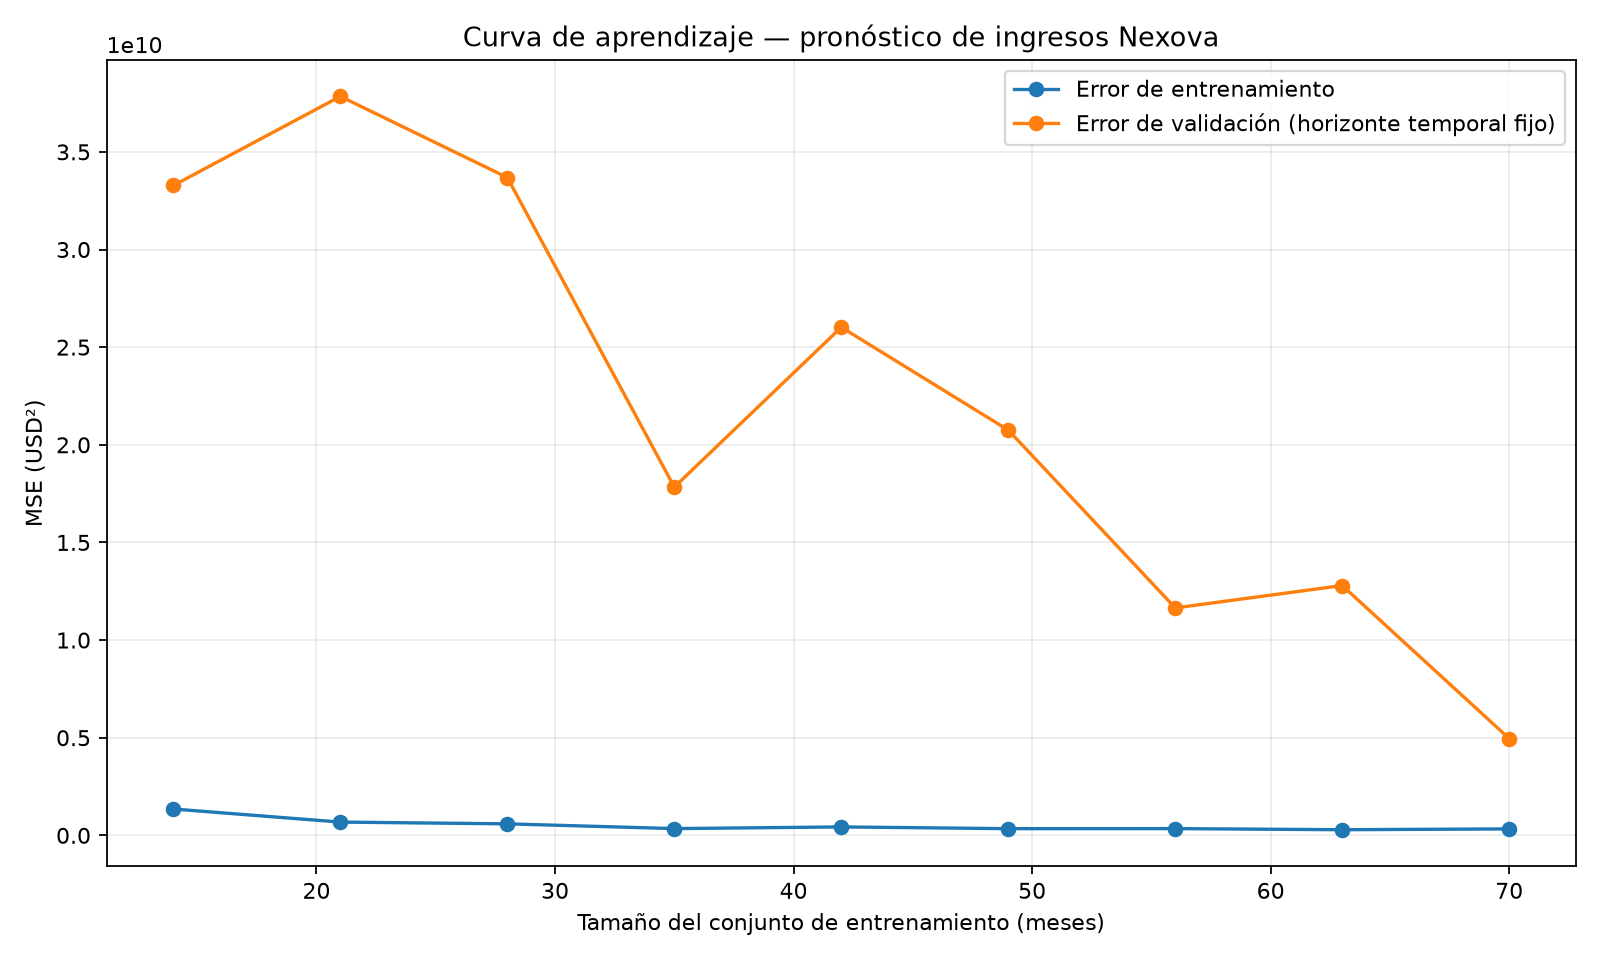
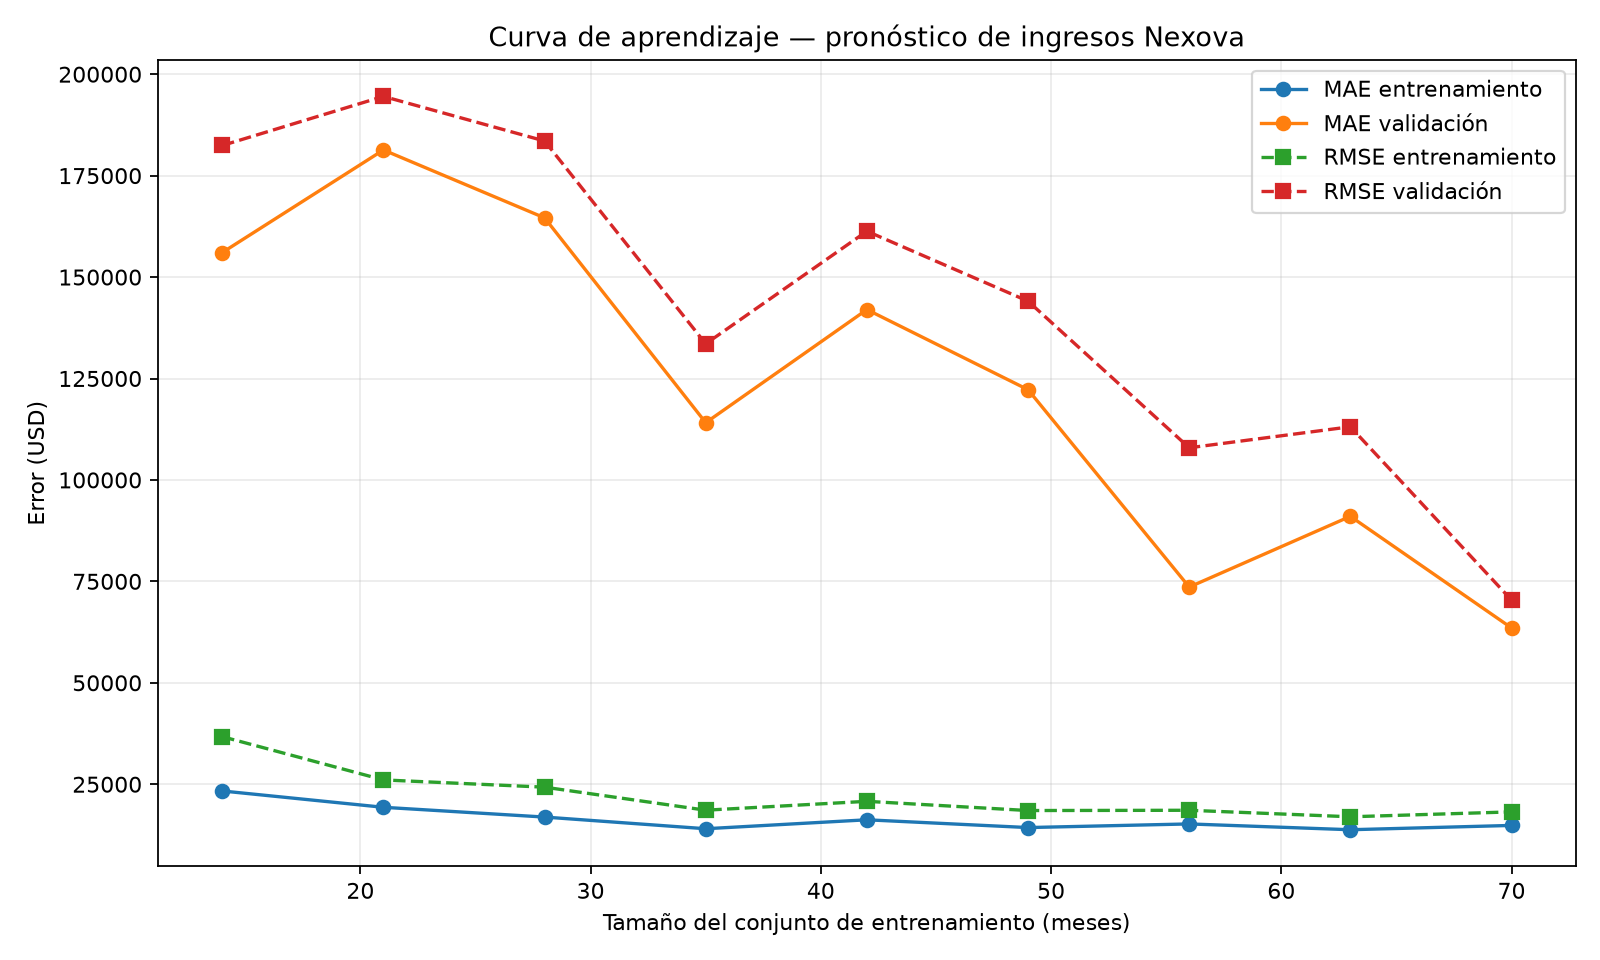
feat: completa evaluación temporal del pronóstico de ventas con métricas, curva de aprendizaje e informe

diff --git a/scripts/sales_forecast.py b/scripts/sales_forecast.py
@@ -167,6 +167,23 @@ def recursive_forest_forecast(
     return predictions_by_tree.mean(axis=1), predictions_by_tree
 
 
+def calculate_error_metrics(
+    actual_values: pd.Series | np.ndarray,
+    predictions: pd.Series | np.ndarray,
+) -> dict[str, float]:
+    """Return dollar-interpretable MAE and RMSE for one evaluation partition."""
+    actual = np.asarray(actual_values, dtype=float)
+    predicted = np.asarray(predictions, dtype=float)
+    if len(actual) != len(predicted) or len(actual) == 0:
+        raise ValueError("Predictions must match a non-empty target")
+    if not np.isfinite(actual).all() or not np.isfinite(predicted).all():
+        raise ValueError("Targets and predictions must be finite")
+    return {
+        "mae_usd": float(np.mean(np.abs(actual - predicted))),
+        "rmse_usd": float(np.sqrt(mean_squared_error(actual, predicted))),
+    }
+
+
 def calculate_metrics(
     y_train: pd.Series,
     y_test: pd.Series,
@@ -215,7 +232,9 @@ def calculate_metrics(
 
     mse = float(mean_squared_error(actual, predicted))
     mean_revenue = float(np.mean(actual))
+    error_metrics = calculate_error_metrics(actual, predicted)
     return {
+        **error_metrics,
         "mse_usd2": mse,
         "mse_pct_of_mean_revenue": float(100 * mse / (mean_revenue**2)) if mean_revenue else float("nan"),
         "psi_revenue_distribution": psi,
@@ -282,7 +301,8 @@ def temporal_cross_validation(
             model, fold_history, fold_x_validation
         )
         train_predictions = model.predict(fold_x_train)
-        fold_train_mse = float(mean_squared_error(fold_y_train, train_predictions))
+        fold_train_errors = calculate_error_metrics(fold_y_train, train_predictions)
+        fold_validation_errors = calculate_error_metrics(fold_y_validation, predictions)
         fold_mse = float(mean_squared_error(fold_y_validation, predictions))
         fold_results.append(
             {
@@ -293,7 +313,10 @@ def temporal_cross_validation(
                 "validation_end": fold_x_validation.index.max(),
                 "train_rows": len(fold_x_train),
                 "validation_rows": len(fold_x_validation),
-                "train_mse_usd2": fold_train_mse,
+                "train_mae_usd": fold_train_errors["mae_usd"],
+                "train_rmse_usd": fold_train_errors["rmse_usd"],
+                "validation_mae_usd": fold_validation_errors["mae_usd"],
+                "validation_rmse_usd": fold_validation_errors["rmse_usd"],
                 "predictions": pd.Series(
                     predictions, index=fold_y_validation.index, name="prediction"
                 ),
@@ -349,16 +372,21 @@ def generate_learning_curve(
             raise AssertionError("Learning-curve train prefix overlaps validation period")
         model = make_forest_model()
         model.fit(prefix_x, prefix_y)
-        train_mse = float(mean_squared_error(prefix_y, model.predict(prefix_x)))
+        train_predictions = model.predict(prefix_x)
+        train_error_metrics = calculate_error_metrics(prefix_y, train_predictions)
         validation_predictions, _ = recursive_forest_forecast(
             model, prefix_y, validation_x
         )
-        validation_mse = float(mean_squared_error(validation_y, validation_predictions))
+        validation_error_metrics = calculate_error_metrics(
+            validation_y, validation_predictions
+        )
         points.append(
             {
                 "train_size": size,
-                "train_mse_usd2": train_mse,
-                "validation_mse_usd2": validation_mse,
+                "train_mae_usd": train_error_metrics["mae_usd"],
+                "train_rmse_usd": train_error_metrics["rmse_usd"],
+                "validation_mae_usd": validation_error_metrics["mae_usd"],
+                "validation_rmse_usd": validation_error_metrics["rmse_usd"],
             }
         )
 
@@ -366,14 +394,18 @@ def generate_learning_curve(
     destination.parent.mkdir(parents=True, exist_ok=True)
     fig, ax = plt.subplots(figsize=(10, 6))
     sizes_array = [point["train_size"] for point in points]
-    ax.plot(sizes_array, [point["train_mse_usd2"] for point in points],
-            marker="o", label="Error de entrenamiento")
-    ax.plot(sizes_array, [point["validation_mse_usd2"] for point in points],
-            marker="o", label="Error de validación (horizonte temporal fijo)")
+    ax.plot(sizes_array, [point["train_mae_usd"] for point in points],
+            marker="o", label="MAE entrenamiento")
+    ax.plot(sizes_array, [point["validation_mae_usd"] for point in points],
+            marker="o", label="MAE validación")
+    ax.plot(sizes_array, [point["train_rmse_usd"] for point in points],
+            marker="s", linestyle="--", label="RMSE entrenamiento")
+    ax.plot(sizes_array, [point["validation_rmse_usd"] for point in points],
+            marker="s", linestyle="--", label="RMSE validación")
     ax.set(
         title="Curva de aprendizaje — pronóstico de ingresos Nexova",
         xlabel="Tamaño del conjunto de entrenamiento (meses)",
-        ylabel="MSE (USD²)",
+        ylabel="Error (USD)",
     )
     ax.grid(alpha=0.25)
     ax.legend()
@@ -414,6 +446,9 @@ def train_and_evaluate(
     # lag features use prior forecasts rather than actual holdout observations.
     train_history = target.loc[:x_train.index.max()]
     predictions, tree_predictions = recursive_forest_forecast(model, train_history, x_test)
+    train_predictions = model.predict(x_train)
+    train_error_metrics = calculate_error_metrics(y_train, train_predictions)
+    validation_error_metrics = calculate_error_metrics(y_test, predictions)
 
     # Tree-to-tree quantiles visualize model spread. This is an empirical
     # ensemble variability band, not a calibrated statistical prediction interval.
@@ -438,6 +473,8 @@ def train_and_evaluate(
     return {
         "model": model,
         "metrics": metrics,
+        "train_error_metrics": train_error_metrics,
+        "validation_error_metrics": validation_error_metrics,
         "cv_folds": cv_folds,
         "cv_summary": cv_summary,
         "learning_curve": learning_curve,
@@ -471,6 +508,16 @@ def main() -> None:
     cv = result["cv_summary"]
     print(f"CV MSE: {cv['mse_usd2_mean']:,.2f} ± {cv['mse_usd2_std']:,.2f} USD² "
           f"(mean ± sample SD, {int(cv['folds'])} folds)")
+    print("MAE/RMSE (entrenamiento vs. validación 2024–2025):")
+    for label, error_metrics in (
+        ("Entrenamiento", result["train_error_metrics"]),
+        ("Validación", result["validation_error_metrics"]),
+    ):
+        print(
+            f"  {label}: MAE={error_metrics['mae_usd']:,.2f} USD; "
+            f"RMSE={error_metrics['rmse_usd']:,.2f} USD"
+        )
+    print("Métricas adicionales de prueba:")
     for name, value in result["metrics"].items():
         print(f"{name}: {value:,.6f}")
     print(f"Forecast visualization: {result['plot_path']}")
@@ -478,6 +525,12 @@ def main() -> None:
     print(f"Learning curve validation: {curve['validation_period'][0]:%Y-%m}–"
           f"{curve['validation_period'][1]:%Y-%m}")
     print(f"Learning curve: {curve['plot_path']}")
+    print(
+        "Métrica orientada a negocio: RMSE, porque castiga cuadráticamente los "
+        "errores grandes; una sobreestimación importante puede inducir compromisos "
+        "de presupuesto que los ingresos reales no cubran. MAE se conserva como "
+        "referencia robusta del error absoluto típico."
+    )
 
 
 if __name__ == "__main__":

diff --git a/tests/pipelines/test_sales_forecast_learning_curve.py b/tests/pipelines/test_sales_forecast_learning_curve.py
@@ -39,8 +39,10 @@ def test_learning_curve_keeps_validation_after_every_training_prefix(tmp_path):
     assert result["points"][-1]["train_size"] == len(x_train) - 14
     for point in result["points"]:
         assert point["train_size"] < len(x_train) - 14 + 1
-        assert np.isfinite(point["train_mse_usd2"])
-        assert np.isfinite(point["validation_mse_usd2"])
+        assert np.isfinite(point["train_mae_usd"])
+        assert np.isfinite(point["train_rmse_usd"])
+        assert np.isfinite(point["validation_mae_usd"])
+        assert np.isfinite(point["validation_rmse_usd"])
     assert validation_start == x_train.index[-14]
     assert validation_end == x_train.index[-1]
 
@@ -59,8 +61,8 @@ def test_learning_curve_is_independent_of_validation_actuals(tmp_path):
     )
 
     np.testing.assert_allclose(
-        [point["train_mse_usd2"] for point in original["points"]],
-        [point["train_mse_usd2"] for point in altered["points"]],
+        [point["train_mae_usd"] for point in original["points"]],
+        [point["train_mae_usd"] for point in altered["points"]],
         rtol=1e-12,
         atol=1e-6,
     )

diff --git a/tests/pipelines/test_sales_forecast_temporal_cv.py b/tests/pipelines/test_sales_forecast_temporal_cv.py
@@ -40,10 +40,16 @@ def test_temporal_cv_has_five_non_overlapping_chronological_folds():
     assert summary["folds"] == 5
     assert summary["mse_usd2_mean"] >= 0
     assert summary["mse_usd2_std"] >= 0
+    previous_validation_end = None
     for fold in folds:
         assert fold["train_start"] <= fold["train_end"]
         assert fold["validation_start"] <= fold["validation_end"]
         assert fold["train_end"] < fold["validation_start"]
+        # Every validation index in this fold must occur after all validation
+        # indices from the preceding fold; folds cannot reorder or overlap time.
+        if previous_validation_end is not None:
+            assert previous_validation_end < fold["validation_start"]
+        previous_validation_end = fold["validation_end"]
         assert len(fold["predictions"]) == fold["validation_rows"]
 
 

diff --git a/data/eval/evaluation_report.md b/data/eval/evaluation_report.md
@@ -1,0 +1,66 @@
+# Informe técnico de evaluación — pronóstico de ventas Nexova
+
+**Fecha:** 2026-11-10  
+**Modelo evaluado:** Random Forest Regressor (500 árboles, `min_samples_leaf=2`, `max_features=0.8`, `random_state=42`)  
+**Objetivo:** ingresos mensuales consolidados (`revenue_usd`)
+
+## Dictamen
+
+**Clasificación: sobreajuste / brecha de generalización (overfitting operativo).**
+
+El modelo ajusta bastante mejor los datos de entrenamiento que los períodos posteriores. La brecha aparece en el holdout 2024–2025 y en los cinco folds de validación temporal. La curva de aprendizaje mejora al añadir historia, pero conserva una brecha importante en su mayor tamaño de entrenamiento.
+
+Esto describe el comportamiento medido; no demuestra que la causa sea únicamente memorizar ruido. Una causa probable y concreta es el desajuste entre la dinámica de los ingresos —crecimiento positivo y estacionalidad— y un Random Forest de regresión, que no extrapola naturalmente una tendencia creciente más allá de los valores vistos en sus árboles. En el pronóstico recursivo, además, el modelo reutiliza sus propias predicciones en los lags, lo que puede acumular errores a lo largo del horizonte.
+
+## Evidencia
+
+### Holdout cronológico 2024–2025
+
+Se entrenó con los primeros ocho años y se evaluó recursivamente en los últimos dos. Las ventas reales del holdout no se incorporaron a las features de meses posteriores.
+
+| Partición | MAE | RMSE |
+|---|---:|---:|
+| Entrenamiento: 84 meses utilizables, 2017-01–2023-12 | 15.446,14 USD | 19.229,07 USD |
+| Validación: 24 meses, 2024-01–2025-12 | 41.470,61 USD | 53.382,27 USD |
+
+El RMSE de validación es aproximadamente **2,78 veces** el de entrenamiento; el MAE, aproximadamente **2,69 veces**. No es el patrón de errores bajos y cercanos que justificaría clasificar el modelo como bien ajustado.
+
+### Validación cruzada temporal
+
+Se usó `TimeSeriesSplit` con cinco folds expansivos y bloques cronológicos de validación de 14 meses. En cada fold, el entrenamiento termina antes de que empiece la validación. Las predicciones son recursivas: las ventas reales del bloque de validación no alimentan las features de pronósticos posteriores.
+
+| Fold | Filas de entrenamiento / validación | RMSE entrenamiento | RMSE validación | MAE validación |
+|---:|---:|---:|---:|---:|
+| 1 | 14 / 14 | 36.728,11 USD | 56.113,05 USD | 41.435,47 USD |
+| 2 | 28 / 14 | 24.281,43 USD | 50.682,56 USD | 38.118,00 USD |
+| 3 | 42 / 14 | 20.793,65 USD | 57.537,95 USD | 46.436,01 USD |
+| 4 | 56 / 14 | 18.586,78 USD | 46.442,97 USD | 37.686,92 USD |
+| 5 | 70 / 14 | 18.189,33 USD | 70.394,71 USD | 63.521,29 USD |
+
+El MSE de validación fue **3.228.075.522 ± 1.069.915.823 USD²** (media ± desviación estándar muestral). El RMSE de validación supera al de entrenamiento en los cinco folds y varía entre 46.442,97 y 70.394,71 USD. Esto evidencia una brecha persistente y sensibilidad al tramo temporal evaluado.
+
+### Curva de aprendizaje
+
+La curva usa una ventana fija de validación de 14 meses, 2022-11–2023-12, mientras amplía el prefijo cronológico de entrenamiento. La imagen correspondiente es `sales_forecast_learning_curve.png`.
+
+Con 70 meses de entrenamiento, el RMSE es **18.189,33 USD** en entrenamiento y **70.394,71 USD** en validación: una brecha de aproximadamente **3,87 veces**. La validación mejora desde 182.427,25 USD con 14 meses hasta el último punto, por lo que disponer de más historia ayuda, pero no elimina la brecha. La mejora no es monótona en todos los puntos, algo posible al comparar segmentos temporales diferentes.
+
+## Acción correctiva concreta
+
+**Probar un modelo con tendencia extrapolable y estacionalidad mensual, y conservar el Random Forest solo como corrector de residuos si la validación demuestra que aporta valor.**
+
+Experimento propuesto:
+
+1. Ajustar una regresión con `time_index` y variables de calendario cíclicas (seno y coseno del mes), usando exclusivamente cada prefijo de entrenamiento.
+2. Evaluar sus pronósticos recursivos en los mismos cinco folds y en el holdout, con las mismas fechas y controles contra fuga.
+3. Comparar RMSE medio y desviación estándar entre folds, MAE y brecha entre entrenamiento y validación con el baseline Random Forest. Aceptar el cambio solo si reduce el error de validación sin empeorar materialmente su variabilidad.
+4. Si persisten patrones no explicados, evaluar el Random Forest sobre los residuos de la tendencia, ajustando su complejidad dentro de esos mismos folds. No seleccionar el modelo mirando los resultados del holdout 2024–2025.
+
+Esta acción responde a una causa específica: el contexto describe crecimiento anual positivo y estacionalidad recurrente, mientras que los árboles no prolongan por sí solos la tendencia fuera del rango observado. La regresión temporal modela explícitamente el crecimiento; las variables de calendario representan los patrones mensuales. El Random Forest sobre residuos puede capturar fluctuaciones restantes sin depender de los árboles para extrapolar el nivel futuro.
+
+## Alcance y cautelas
+
+- El contexto señala que una sobreestimación puede influir en compromisos presupuestarios, pero no cuantifica un costo distinto para sobreestimar frente a subestimar. MAE y RMSE penalizan ambos sentidos; RMSE da más peso a los errores grandes, pero no es una función de costo unilateral.
+- El CSV provisto contiene la fila `consolidated`; por tanto, el PSI calculado describe el cambio en la distribución de ingresos consolidados, no el mix entre headhunting, outsourcing y formación.
+- La banda P5–P95 entre árboles representa dispersión del ensemble, no un intervalo de predicción calibrado.
+- Estos resultados evalúan el dataset proporcionado; no garantizan por sí solos el desempeño con ingresos reales futuros.

diff --git a/memory-bank/progress.md b/memory-bank/progress.md
@@ -355,3 +355,9 @@ En terminos de impacto, el proyecto ya reduce friccion en la operacion de selecc
 - Las respuestas de inventario separan los modelos de entrada y salida. El historial usa proyecciones planas con nombre/SKU del activo, proveedor o destinatario/tipo de movimiento; omite claves foráneas e identificador interno del usuario. Backoffice se alineó con ese contrato.
 - Verificación: backend `57 passed`, 7 subtests y 1 warning no bloqueante de deprecación Starlette; Backoffice `npm run lint`, `npm run typecheck` y `npm test` correctos (3 suites, 18 pruebas); `git diff --check` correcto y recuento de auditoría comprobado.
 - Pendiente: crear commits separados para implementación (backend, tests y consumidor Backoffice) y documentación (auditoría y este progreso), previa confirmación explícita de los mensajes.
+
+## Evaluación temporal de ventas (2026-11-10)
+
+- Actualizados el pipeline de pronóstico y sus pruebas para incluir MAE/RMSE, curva de aprendizaje con ambas métricas y comprobación del orden cronológico entre folds.
+- Validación ejecutada: 5 pruebas de los módulos de validación temporal y curva de aprendizaje pasaron; compilación Python correcta. No hay Ruff ni Flake8 instalados en el entorno para ejecutar lint.
+- Pendiente: revisión del gráfico generado y del informe en data/eval, así como aprobación explícita de los mensajes de commit antes de crear commits.
